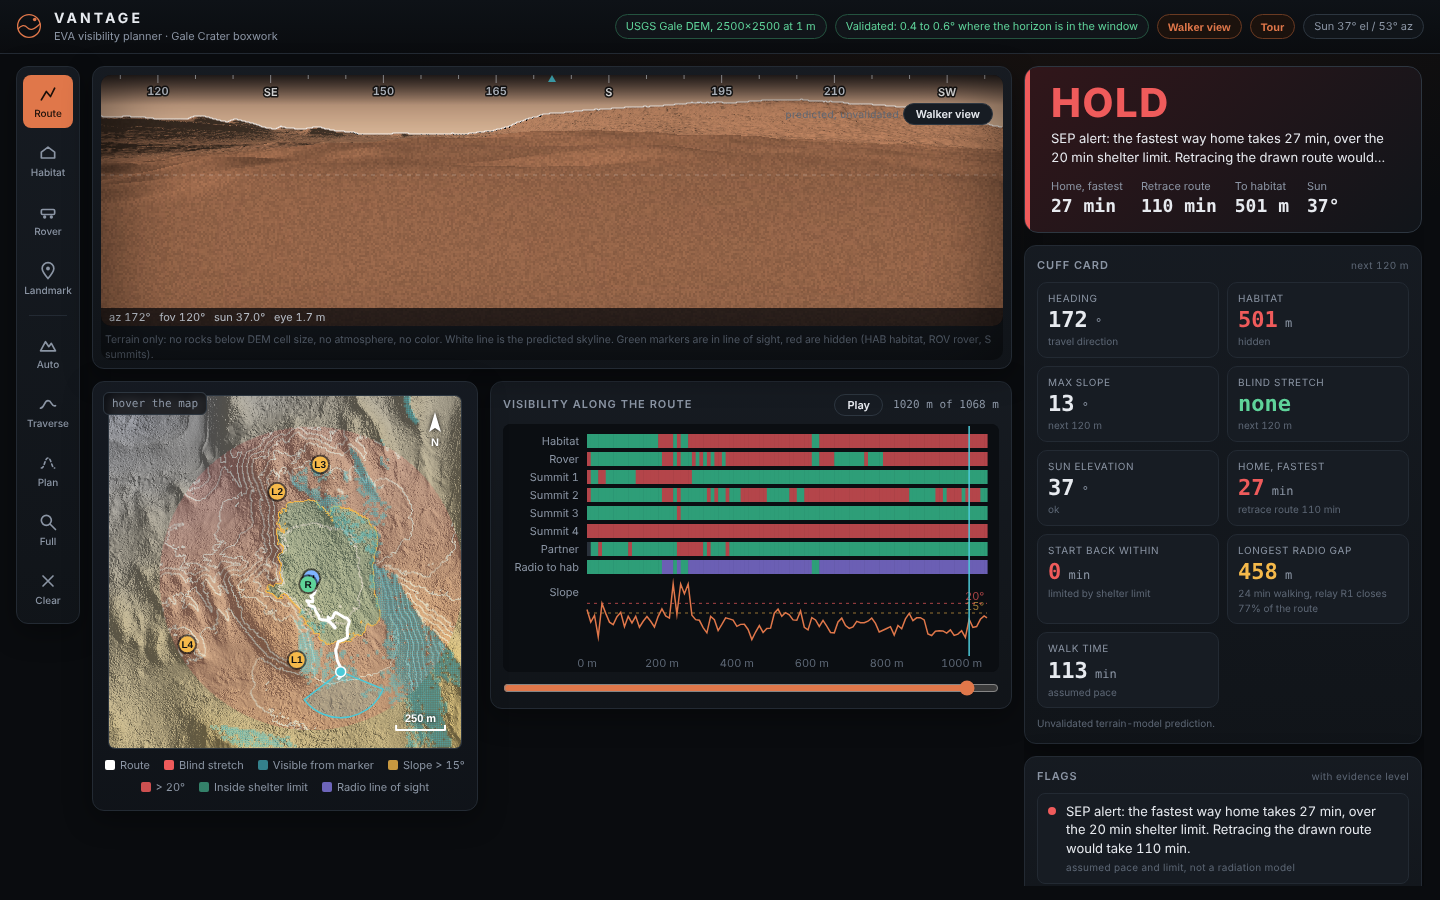
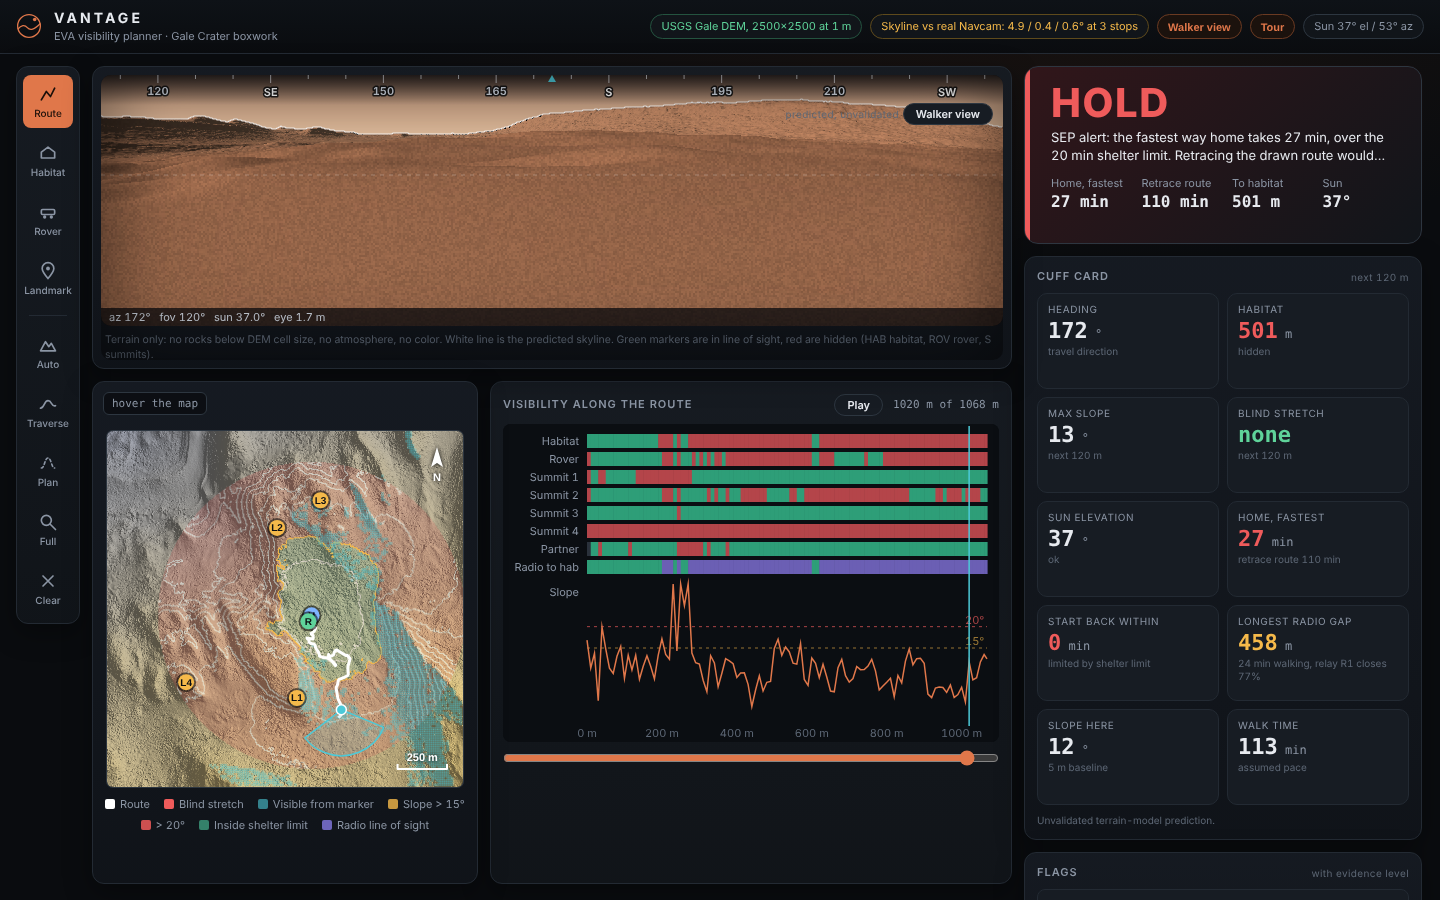
repo update

diff --git a/web/js/app.js b/web/js/app.js
@@ -528,9 +528,10 @@ function cuff() {
     kpi(maxSl > 20 ? "bad" : maxSl > 15 ? "warn" : "", "Max slope", maxSl.toFixed(0), "\u00b0", "next 120 m") +
     (nextBlind ? kpi("warn", "Blind stretch", Math.max(0, nextBlind.from - cur.s).toFixed(0), "m ahead", nextBlind.length.toFixed(0) + " m long") : kpi("ok", "Blind stretch", "none", "", "next 120 m")) +
     kpi(sun.elevDeg < thr ? "warn" : "", "Sun elevation", sun.elevDeg.toFixed(0), "\u00b0", sun.elevDeg < thr ? "low sun" : "ok") +
-    (sb ? kpi($("sepAlert").checked && sb.ret > +$("shelterMin").value ? "bad" : "", "Home, fastest", sb.ret.toFixed(0), "min", "retrace route " + (S.cum && S.cum.length ? S.cum[S.rows.indexOf(cur)].toFixed(0) : "--") + " min") : "") +
-    (sb ? kpi(sb.limiting.min < 0 ? "bad" : sb.limiting.min < 30 ? "warn" : "ok", "Start back within", Math.max(0, sb.limiting.min).toFixed(0), "min", "limited by " + sb.limiting.k) : "") +
-    (S.radio ? kpi(S.radio.worst.len > 0 ? "warn" : "ok", "Longest radio gap", S.radio.worst.len.toFixed(0), "m", (S.radio.gapMin ? S.radio.gapMin.toFixed(0) + " min walking" : "none") + (S.relay?.picks?.length ? ", relay R1 closes " + Math.round((S.relay.picks[0].coveredFrac - S.relay.before) * 100) + "% of the route" : "")) : "") +
+    (sb ? kpi($("sepAlert").checked && sb.ret > +$("shelterMin").value ? "bad" : "", "Home, fastest", sb.ret.toFixed(0), "min", "retrace route " + (S.cum && S.cum.length ? S.cum[S.rows.indexOf(cur)].toFixed(0) : "--") + " min") : kpi("", "Home, fastest", "--", "", "place a habitat")) +
+    (sb ? kpi(sb.limiting.min < 0 ? "bad" : sb.limiting.min < 30 ? "warn" : "ok", "Start back within", Math.max(0, sb.limiting.min).toFixed(0), "min", "limited by " + sb.limiting.k) : kpi("", "Start back within", "--", "", "place a habitat")) +
+    (S.radio ? kpi(S.radio.worst.len > 0 ? "warn" : "ok", "Longest radio gap", S.radio.worst.len.toFixed(0), "m", (S.radio.gapMin ? S.radio.gapMin.toFixed(0) + " min walking" : "none") + (S.relay?.picks?.length ? ", relay R1 closes " + Math.round((S.relay.picks[0].coveredFrac - S.relay.before) * 100) + "%" : "")) : kpi("", "Longest radio gap", "--", "", "place a habitat")) +
+    kpi(S.T.slopeDeg(cur.x, cur.y, SLOPE_BASELINE_M) > 20 ? "bad" : "", "Slope here", (S.T.slopeDeg(cur.x, cur.y, SLOPE_BASELINE_M) || 0).toFixed(0), "\u00b0", "5 m baseline") +
     kpi("", "Walk time", S.rows.length ? walkMinutes(S.T, S.rows).toFixed(0) : "--", "min", "assumed pace") +
     `<div class="cuffnote">Unvalidated terrain-model prediction.</div>`;
 }
@@ -616,7 +617,7 @@ function bind() {
   $("btnPlay").onclick = () => {
     if (timer) { clearInterval(timer); timer = null; $("btnPlay").textContent = "Play"; return; }
     $("btnPlay").textContent = "Pause";
-    timer = setInterval(() => { let v = +$("pos").value + 4; if (v > 1000) v = 0; $("pos").value = v; refresh(); scheduleViewshed(); }, 90);
+    timer = setInterval(() => { let v = +$("pos").value + 3; if (v > 1000) v = 0; $("pos").value = v; refresh(); scheduleViewshed(); }, 260);
   };
   window.addEventListener("resize", () => { setupMap(); refresh(); });
   syncZoomLabel();

diff --git a/web/css/style.css b/web/css/style.css
@@ -198,3 +198,19 @@ body{font-variant-numeric:tabular-nums}
 @keyframes holdpulse{50%{box-shadow:0 0 0 6px rgba(239,91,91,.22)}}
 .verdict[data-level=bad]{animation:holdpulse 1.4s ease-in-out infinite}
 @media (prefers-reduced-motion:reduce){.verdict[data-level=bad]{animation:none}}
+
+/* stable layout: nothing resizes while the position changes */
+.verdict{min-height:178px}
+.vreason{height:2.7em;min-height:0;line-height:1.35}
+.vstats{display:grid;grid-template-columns:repeat(4,1fr);gap:10px;height:48px;flex-wrap:nowrap}
+.vstats b{white-space:nowrap;font-size:16px}
+.kpi{min-height:96px}
+.kpi .s{display:-webkit-box;-webkit-line-clamp:2;-webkit-box-orient:vertical;overflow:hidden;min-height:2.5em;line-height:1.25}
+.kpi .v{white-space:nowrap}
+#flags{height:236px;max-height:none;overflow-y:auto;align-content:flex-start}
+#flags::-webkit-scrollbar{width:6px}#flags::-webkit-scrollbar-thumb{background:var(--line2);border-radius:6px}
+@media (min-width:1101px){
+  .side{position:static;max-height:none;overflow:visible}
+  .lower{align-items:stretch}
+  .lower #strip{height:318px;max-height:none;flex:none}
+}

diff --git a/README.md b/README.md
@@ -1,67 +1,150 @@
-# Vantage
+<div align="center">
 
-**Terrain-based visibility planning for Mars EVA. For any route, it predicts what a walking astronaut can see, and what they will lose sight of: habitat, rover, partner, landmarks.**
+<picture>
+  <source media="(prefers-color-scheme: light)" srcset="docs/img/vantage-wordmark-light.svg">
+  <img src="docs/img/vantage-wordmark.svg" alt="Vantage" width="420">
+</picture>
 
-NASA Space Apps Challenge 2026, *Interplanetary Survival Guide: Martian Map*. Site: Gale Crater, Mount Sharp boxwork region (Curiosity rover traverse).
+<br>
 
-![Vantage overview](docs/img/overview.png)
+### See what a walking astronaut can see, before they walk.
+Predicts the view along a Mars EVA route on 1 m NASA terrain, flags where home drops out of sight,<br>and shows the fastest way back, the radio gaps and how much time is left.
 
-[Live demo](#live-demo) &middot; [Methodology](docs/METHODOLOGY.md) &middot; [Architecture](docs/ARCHITECTURE.md) &middot; [Data](docs/DATA.md) &middot; [Validation](docs/VALIDATION.md) &middot; [Limitations](docs/LIMITATIONS.md) &middot; [References](docs/REFERENCES.md)
+<br>
 
----
+[**Live demo**](#live-demo) &nbsp;&middot;&nbsp; [**60 second tour**](#live-demo) &nbsp;&middot;&nbsp; [Methodology](docs/METHODOLOGY.md) &nbsp;&middot;&nbsp; [Validation](docs/VALIDATION.md) &nbsp;&middot;&nbsp; [Limitations](docs/LIMITATIONS.md) &nbsp;&middot;&nbsp; [Data](docs/DATA.md)
 
-## The problem
+<br>
 
-- On foot, navigation depends on seeing landmarks. Terrain decides whether you can.
-- Apollo crews misjudged distance and slope, the Apollo 14 crew did not recognize the rim of Cone Crater, and low sun made slopes look steeper than they were.
-- On Mars, ground control is up to about 20 minutes away by radio, so the crew and the pre-planned route carry more of the safety burden.
-- Traverse planning weighs slope, distance and time, and Artemis planning already uses line of sight to the lander as one input. We did not find a tool that shows, along a whole route, which landmarks, partner and vehicles stay in view, renders what the crew would see, and flags where that view is likely to mislead them.
+![NASA Space Apps 2026](https://img.shields.io/badge/NASA%20Space%20Apps-2026-0b3d91?style=flat-square)
+![Site](https://img.shields.io/badge/site-Gale%20Crater%20boxwork-e0774a?style=flat-square)
+![Terrain](https://img.shields.io/badge/terrain-USGS%201%20m%20DEM-5b6b7a?style=flat-square)
+![Tests](https://img.shields.io/badge/tests-26%20passing-2e9e78?style=flat-square)
+![Build](https://img.shields.io/badge/build%20step-none-2e9e78?style=flat-square)
+![License](https://img.shields.io/badge/license-MIT-lightgrey?style=flat-square)
 
-## What Vantage does
+<br>
 
-All outputs are computed from a digital elevation model (DEM) and the traverse geometry:
+<img src="docs/img/overview.png" alt="Vantage: predicted view, shelter reach map, visibility strip, verdict and cuff card" width="100%">
 
-| Output | Question it answers |
+</div>
+
+<br>
+
+## Why
+
+On foot, navigation depends on seeing landmarks, and terrain decides whether you can. Apollo crews misjudged distance and slope, the Apollo 14 crew did not recognize the rim of Cone Crater, and low sun made slopes look steeper than they were. On Mars the crew is also up to about 20 minutes from ground control by radio, so the route itself carries more of the safety burden.
+
+Traverse planning already weighs slope, distance and time, and Artemis planning uses line of sight to the lander as one input. We did not find a tool that shows, along a whole route, what stays in view, renders what the crew would see, and flags where that view is likely to mislead them.
+
+<br>
+
+## What it tells you on the real Curiosity route
+
+<table>
+<tr>
+<td width="33%" align="center"><h3>77%</h3>of the route has no radio line of sight to the habitat. One relay at the marked site would cover all of it.</td>
+<td width="33%" align="center"><h3>29 min vs 113 min</h3>fastest way home from the far end of the route, against retracing the drawn route.</td>
+<td width="33%" align="center"><h3>0.4 to 0.6&deg;</h3>skyline error against real Curiosity camera frames where the horizon is inside the terrain window.</td>
+</tr>
+</table>
+
+Numbers are computed live from the loaded route and terrain. They are predictions with labeled assumptions, not measurements.
+
+<br>
+
+## Features
+
+<table>
+<tr>
+<td width="50%" valign="top">
+
+<img src="docs/img/walker.png" alt="Walker view" width="100%">
+
+**Walker view**<br>
+Full-screen predicted view from eye height, with compass, sun, distance labels and the verdict underneath. Arrow keys walk the route.
+
+</td>
+<td width="50%" valign="top">
+
+<img src="docs/img/shelter-reach.png" alt="Shelter reach map" width="100%">
+
+**Shelter reach**<br>
+The fastest walking time home as contours every 15 minutes that bend around steep ground, with the shelter limit marked, against retracing the drawn route.
+
+</td>
+</tr>
+<tr>
+<td width="50%" valign="top">
+
+<img src="docs/img/radio-shadow.png" alt="Radio shadow and relay sites" width="100%">
+
+**Radio shadow and relay siting**<br>
+Where terrain cuts line of sight to the habitat, the longest outage in minutes of walking, and the best relay sites. Geometry only, not a link budget.
+
+</td>
+<td width="50%" valign="top">
+
+<img src="docs/img/validation-panel.png" alt="Validation panel" width="100%">
+
+**Checked against real images**<br>
+Predicted skyline against Curiosity Navcam frames at three stops. The page reports the failure toward the far horizon as plainly as the good match.
+
+</td>
+</tr>
+</table>
+
+| | |
 |---|---|
-| **Verdict** | NOMINAL, CAUTION or HOLD at the current point on the route, with the reason, the fastest way home and the time to retrace the drawn route. |
-| **Visibility strip** | Along this route, where are habitat, rover, partner and landmarks in view, and where is nothing in view? |
-| **Predicted view** | What does the skyline and terrain look like from this point, looking this way, at this local solar time? A full-screen **Walker view** follows the route with the arrow keys. |
-| **Shelter reach** | A map of the fastest walking time home from the habitat, as contours every 15 minutes that bend around steep ground, with the shelter limit marked. Compared with retracing the drawn route. |
-| **Start back within** | The smallest margin among the shelter limit (during an alert), daylight (5 degree sun or terrain shadow) and suit time (EVA length minus time used and a reserve), after subtracting the fastest way home. |
-| **Radio shadow** | Where terrain blocks line of sight between the habitat mast and the suit, the longest outage in minutes of walking, and the best relay sites (greedy search). Geometry only, not a link budget. |
-| **Safety checks** | Slope against the planning limit, ground hidden ahead, low sun, terrain shadow, partner out of sight, how sensitive habitat visibility is to a position error, and a walk-back time checked against a shelter limit when a solar particle event alert is set. |
-| **Route planner** | A slope-limited route that prefers keeping the habitat in view, compared with the drawn route on length, time, steepest slope and share of the route with the habitat hidden. |
+| **Verdict** | NOMINAL, CAUTION or HOLD at the current point, with the reason, the fastest way home and the retrace time. Advisory only, not a safety certification. |
+| **Start back within** | The smallest margin among the shelter limit (during a solar particle event alert), daylight (Sun below 5 degrees or terrain shadow) and suit time, after subtracting the fastest way home. |
+| **Visibility strip** | Where habitat, rover, partner, landmarks and radio are in view along the whole route, and where nothing is. |
+| **Safety checks** | Slope against the planning limit, ground hidden ahead, low sun, terrain shadow, partner out of sight, and how sensitive habitat visibility is to a position error. |
+| **Route planner** | A slope-limited route that keeps the habitat in view, compared with the drawn route on length, time, steepest slope and share of route with the habitat hidden. |
+| **Cuff card** | The numbers a crew member needs on a wrist or tablet display: heading, habitat distance, max slope ahead, next blind stretch, sun, time home, radio gap. |
 
-The **cuff card** gives the numbers a crew member would need on a wrist display: heading, habitat distance and visibility, max slope ahead, next blind stretch, sun elevation, walk-back time and total walk time. A 60 second guided tour in the app shows each feature on the real route.
+<br>
 
-## Scientific goal and location
+## Live demo
 
-- **Goal:** support safe, navigable EVA in terrain where the landmarks you rely on can disappear behind low relief.
-- **Site:** Gale Crater boxwork on Mount Sharp. Networks of low ridges (about 1 to 2 m tall) with sandy hollows between them, which is the kind of terrain that hides things from a person at eye height. Curiosity has driven it, so real rover imagery exists to test against.
-- **Time window used for tests:** Curiosity sols around 4600 onward (boxwork campaign).
+- Open the site from this repository's *About* link and choose **Take the 60 second tour** on the welcome card.
+- Or run it locally, below. The app is static HTML, CSS and JavaScript.
+
+<br>
 
 ## How it meets the challenge brief
 
 | Requirement | How |
 |---|---|
-| At least 3 kinds of data, layered | Orbital topography (USGS Gale 1 m DEM), rover traverse (NASA MMGIS waypoints), solar geometry (Ls, local true solar time), derived slope. Surface imagery from Curiosity is used for validation. |
-| Astronaut safety first | Visibility and blind-stretch warnings, hidden-ground-ahead flag, low-sun flag, terrain shadow, slope limits, partner line of sight, and a walk-back time checked against a user-set shelter limit during a solar particle event alert. A radiation model and dust are out of scope and listed under [limitations](docs/LIMITATIONS.md). |
-| Suited mobility and obstacle avoidance | Slope-derated walking time. A planner finds a route that avoids slopes over a set limit and keeps the habitat in view, and the drawn route is checked against slope and visibility. Obstacles smaller than the DEM cell are not modeled. |
-| Point-of-view surface imagery | Predicted first-person terrain view. Compared with real Curiosity Navcam frames in [validation](docs/VALIDATION.md): about 0.4 to 0.6 deg skyline error where the horizon is inside the DEM window, 3 to 6 deg too low toward a far horizon beyond it. |
-| Rovers, robots, crew pairs | Rover is a visibility target. A trailing partner at a set distance gives a lost-partner flag. |
-| Format | Browser app. Cuff card is designed for a wrist or tablet display. Nothing is mounted to the helmet. |
+| At least 3 kinds of data, layered | Orbital topography (USGS Gale 1 m DEM), rover traverse (NASA MMGIS waypoints), solar geometry (Ls and local true solar time), derived slope. Curiosity surface imagery is used for validation. |
+| Astronaut safety first | Blind-stretch, hidden-ground, low-sun, terrain-shadow, slope, partner and radio checks, a shelter-reach map and start-back clocks against a user-set shelter limit. A radiation model and dust are out of scope, see [limitations](docs/LIMITATIONS.md). |
+| Suited mobility and obstacle avoidance | Slope-derated walking time. A planner avoids slopes over a set limit and keeps the habitat in view. Obstacles smaller than the DEM cell are not modeled. |
+| Point-of-view surface imagery | Predicted first-person terrain view, compared with real Curiosity Navcam frames in [validation](docs/VALIDATION.md). |
+| Rovers, robots, crew pairs | The rover is a visibility target. A trailing partner at a set distance gives a lost-partner flag. |
+| Format | Browser app. The cuff card suits a wrist or tablet display. Nothing is mounted to the helmet. |
 
-## Live demo
+<br>
 
-- GitHub Pages: see the repository's *About* link. Choose *Take the 60 second tour* on the welcome card.
-- Local: see below.
+## Validation in one table
+
+3 stops, 7 Curiosity Navcam frames, 500 skyline samples, nothing tuned to them.
+
+| Stop | Skyline RMSE | Within 1&deg; | What the skyline is |
+|---|---|---|---|
+| Sol 4748 | **0.43&deg;** | 95% | Foothills and ridges inside the 2.5 km terrain window |
+| Sol 4839 | **0.63&deg;** | 89% | Foothills and ridges inside the 2.5 km terrain window |
+| Sol 4634 | **4.90&deg;** | 12% | Far crater rim, outside the window. The model horizon is 3 to 6&deg; too low |
+
+A 25 m position error raises the skyline error at sol 4748 from 0.43&deg; to 0.81&deg;. Seven frames at three stops is a small sample, and landmark visibility was not tested directly. Full method, exclusions and links: [docs/VALIDATION.md](docs/VALIDATION.md).
+
+<br>
 
 ## Run locally
 
 Requires Python 3.10+ and Node 20+.
 
 ```bash
-# 1. Fetch a 2.5 km window of the real USGS Gale DEM (about 150 MB transferred, reads only the window)
+# 1. Fetch a 2.5 km window of the real USGS Gale DEM (reads only the window)
 pip install -r pipeline/requirements.txt
 python pipeline/fetch_terrain_window.py
 
@@ -69,32 +152,41 @@ python pipeline/fetch_terrain_window.py
 cd web && python -m http.server 8000     # open http://localhost:8000
 
 # 3. Tests
-node --test tests/core.test.mjs          # visibility core
+node --test tests/core.test.mjs          # visibility, planner, shelter reach, radio (26 tests)
 python tests/test_pipeline.py            # data pipeline on a synthetic GeoTIFF
+node validation/validate.mjs             # rerun the skyline validation
 ```
 
-If `web/data/` does not contain `dem.f32`, the app falls back to synthetic terrain and shows a red banner. Synthetic terrain is only for development and is never presented as Mars.
+If `web/data/dem.f32` is missing, the app falls back to synthetic terrain and shows a red banner. Synthetic terrain is only for development and is never presented as Mars.
+
+<br>
 
 ## Repository layout
 
 ```
-web/            Static app (no build step): UI, visibility core, terrain loader, data
+web/            Static app, no build step
   js/           terrain.js, visibility.js, sun.js, app.js
-  data/         Processed terrain window and traverse used by the app
+  data/         Processed terrain window, traverse and validation results
 pipeline/       Windowed read of the USGS DEM and MMGIS waypoints
-tests/          Unit tests (JS core) and pipeline test (Python)
+validation/     Skyline comparison against Curiosity Navcam frames
+tests/          JS core tests and a Python pipeline test
 docs/           Methodology, architecture, data, validation, limitations, references
 .github/        CI and GitHub Pages deployment
 ```
 
-## Status
+<br>
 
-- Working: visibility core, route products, predicted view and Walker view, verdict, walk-back and shelter check, terrain shadow, position-sensitivity check, route planner, guided tour, data pipeline, 26 JS tests and a pipeline test.
-- Validation against real Curiosity panoramas: 3 stops, 7 Navcam frames, 500 skyline samples, nothing tuned. Skyline RMSE 0.43 and 0.63 deg at two stops where the skyline is terrain inside the 2.5 km window, 4.90 deg at one stop looking toward the far crater rim (model horizon too low). See [docs/VALIDATION.md](docs/VALIDATION.md). Rerun: `node validation/validate.mjs`.
-- Every threshold and height in the app is an editable assumption with its basis stated in [docs/METHODOLOGY.md](docs/METHODOLOGY.md#assumption-register). None is a measured Mars value unless stated.
+## Limits worth knowing
+
+- Every threshold and height is an editable assumption with its basis in the [assumption register](docs/METHODOLOGY.md#assumption-register). Walking pace and slope limits are lunar planning figures, not Mars measurements.
+- The terrain window is 2.5 km. Horizons beyond it are not modeled and the predicted skyline there is too low.
+- The shelter check is a time clock, not a radiation model. Radio shadow is geometric line of sight, not a link budget.
+- Full list: [docs/LIMITATIONS.md](docs/LIMITATIONS.md).
+
+<br>
 
 ## License and credits
 
-- Code: MIT (see `LICENSE`).
-- Data: NASA and USGS products, used under their public terms. See [docs/DATA.md](docs/DATA.md).
-- Author: Rashi Tyagi.
+- Code: MIT, see `LICENSE`.
+- Data: NASA and USGS products used under their public terms, see [docs/DATA.md](docs/DATA.md). Curiosity images are NASA/JPL-Caltech.
+- Built by Rashi Tyagi for the NASA Space Apps Challenge 2026, *Interplanetary Survival Guide: Martian Map*.
